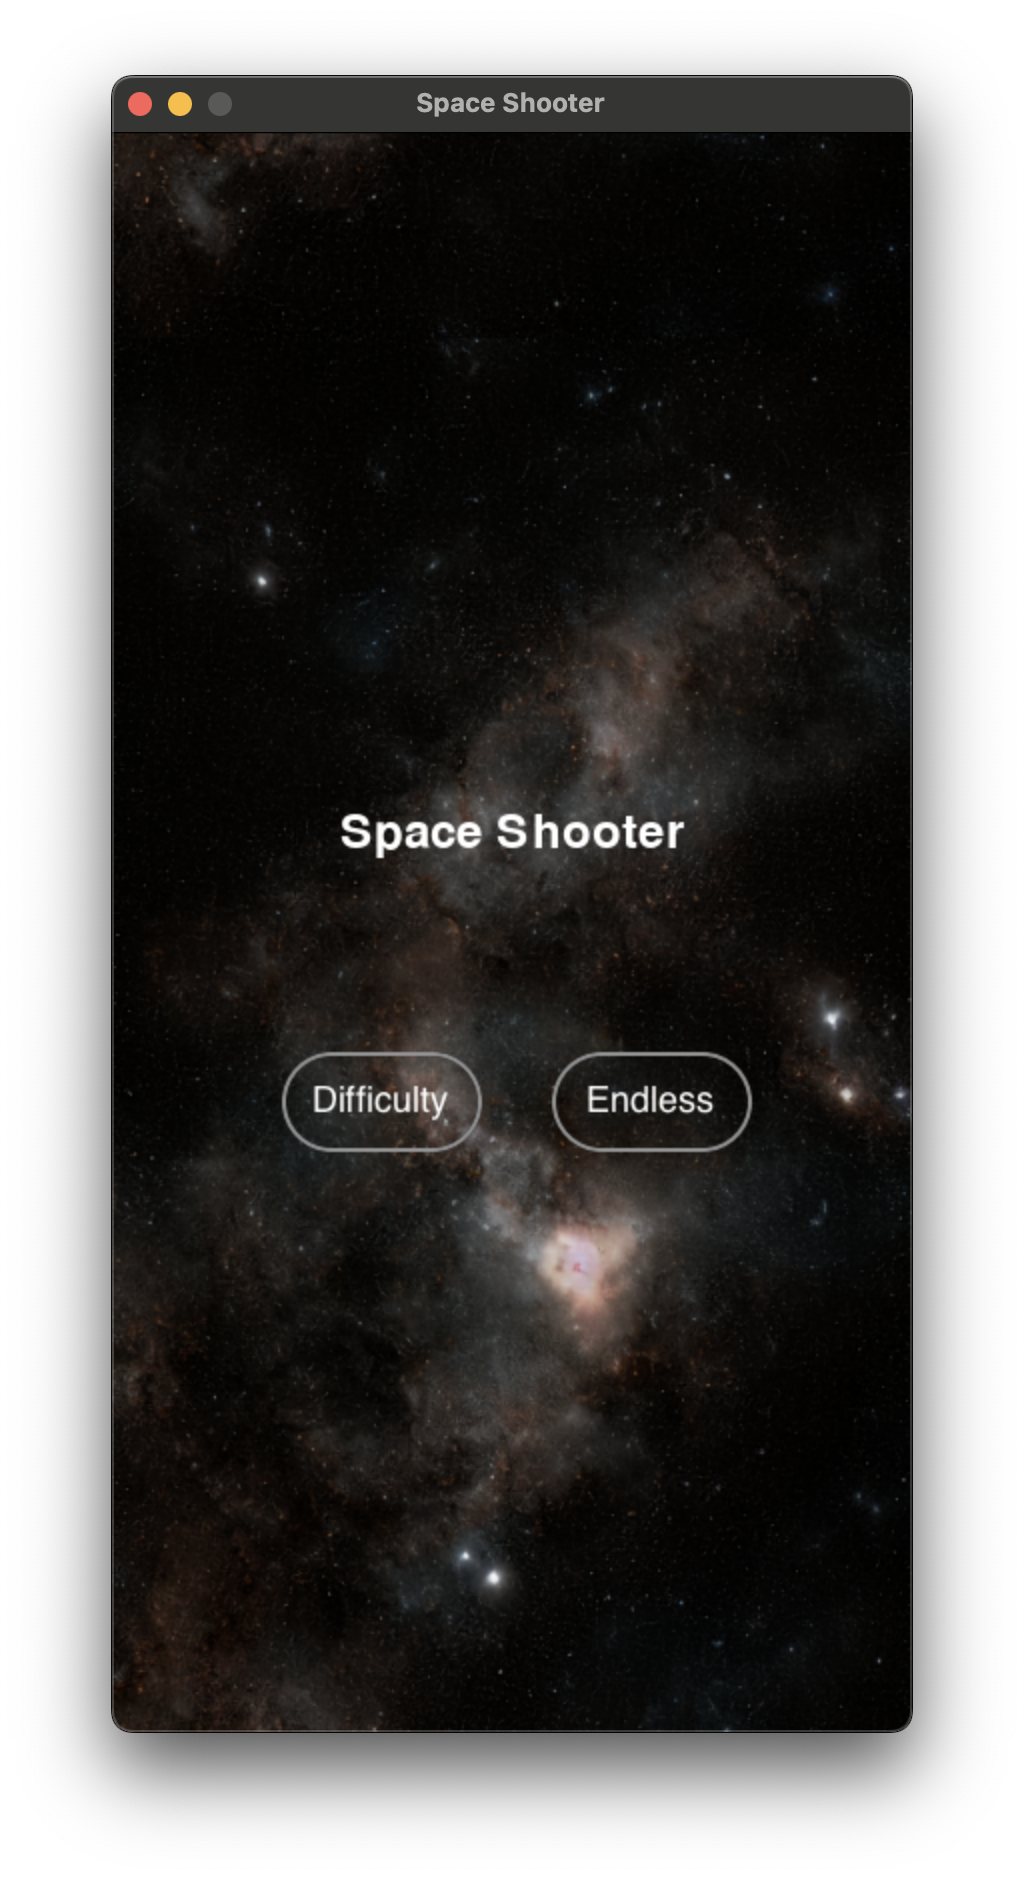
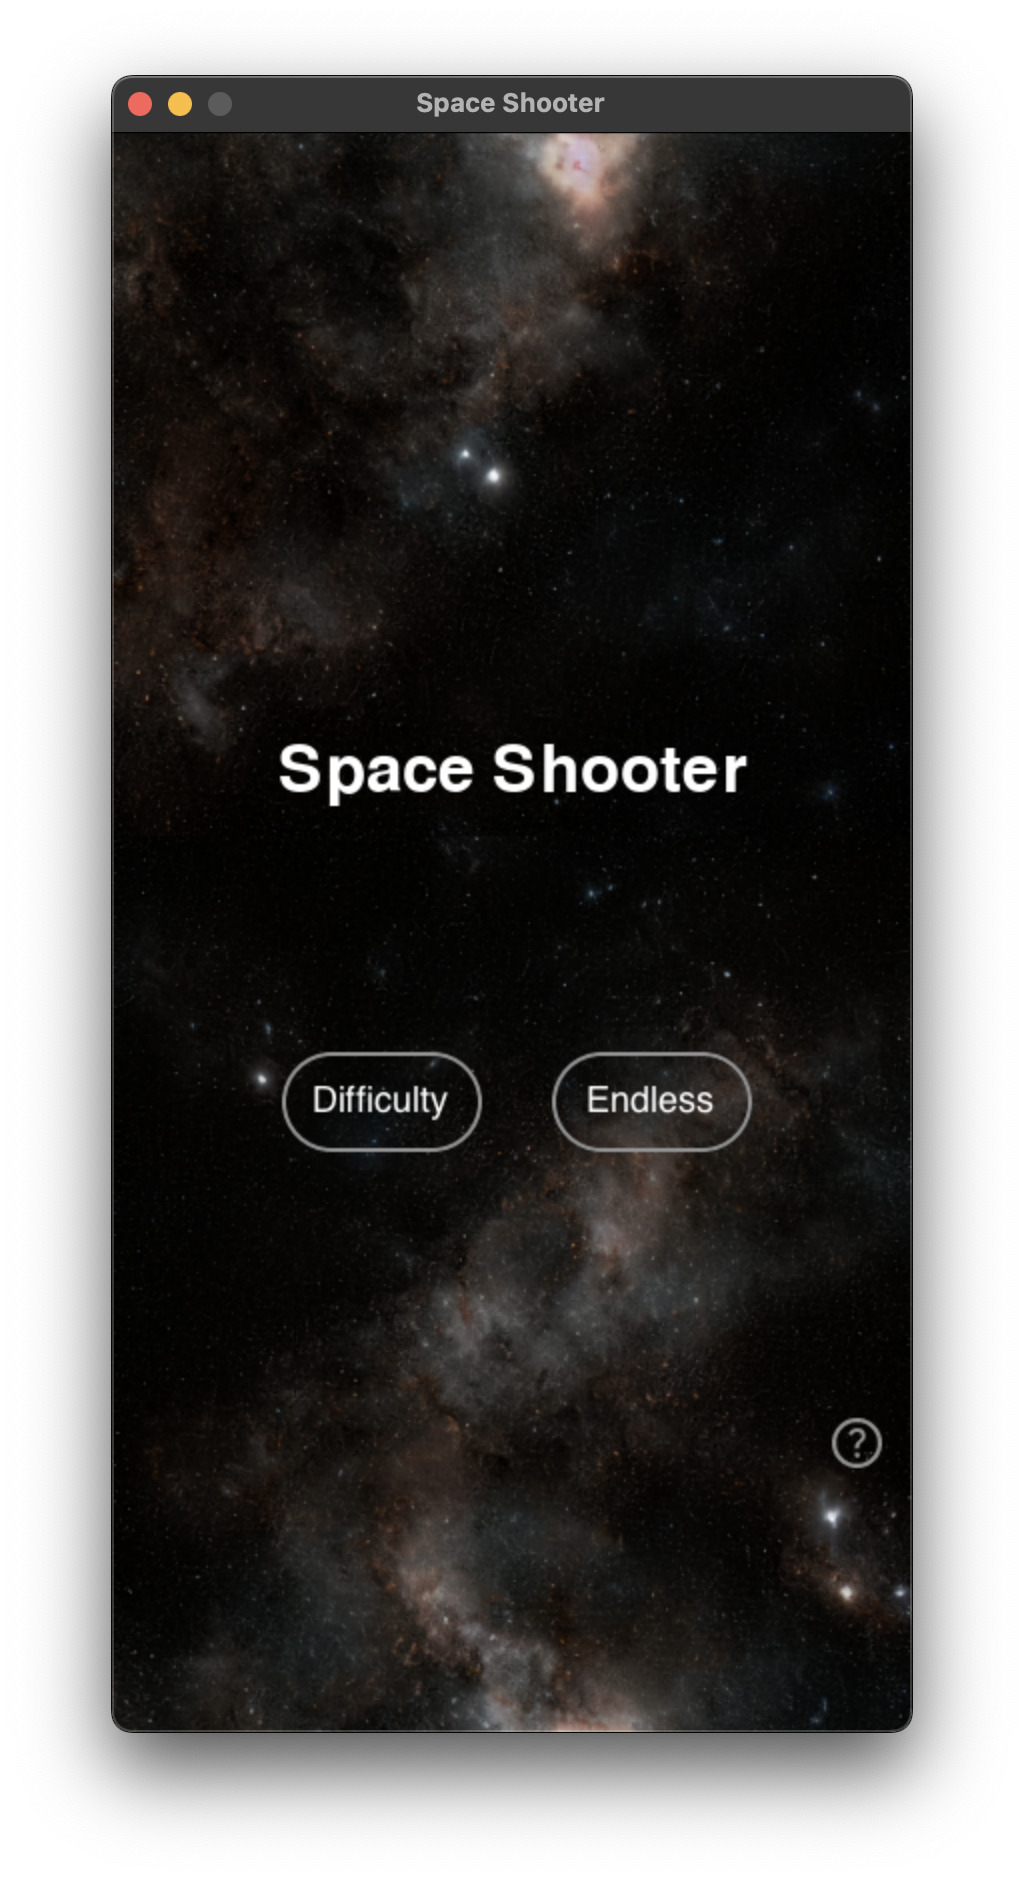
vB 4.5 ReadMe Update - More Gameplay Info

diff --git a/README.md b/README.md
@@ -6,11 +6,13 @@ A Simple Game using Pygame Module. Just keep shooting and scoring.
 - **Image Resources are coming from internet**
 
 ## Game Screen
-|                                      Intro Screen                                       |                                      Game Screen                                       |
-|:---------------------------------------------------------------------------------------:|:--------------------------------------------------------------------------------------:|
-| ![](https://github.com/UniKerogen/space-shooter/blob/main/supplements/intro_screen.png) | ![](https://github.com/UniKerogen/space-shooter/blob/main/supplements/endless_run.png) | 
-|                                      Level Screen                                       |                                       End Screen                                       |
-| ![](https://github.com/UniKerogen/space-shooter/blob/main/supplements/level_screen.png) | ![](https://github.com/UniKerogen/space-shooter/blob/main/supplements/end_screen.png)  |
+|                                           Intro Screen                                           |                                       Game Screen                                        |
+|:------------------------------------------------------------------------------------------------:|:----------------------------------------------------------------------------------------:|
+|     ![](https://github.com/UniKerogen/space-shooter/blob/main/supplements/intro_screen.png)      |   ![](https://github.com/UniKerogen/space-shooter/blob/main/supplements/gameplay.png)    | 
+|                                          Tutorial Block                                          |                                    Information Block                                     |
+| ![](https://github.com/UniKerogen/space-shooter/blob/main/supplements/intro_screen_tutorial.png) | ![](https://github.com/UniKerogen/space-shooter/blob/main/supplements/gameplay_info.png) |
+|                                           Level Screen                                           |                                        End Screen                                        |
+|     ![](https://github.com/UniKerogen/space-shooter/blob/main/supplements/level_screen.png)      |  ![](https://github.com/UniKerogen/space-shooter/blob/main/supplements/end_screen.png)   |
 
 
 ## Files
